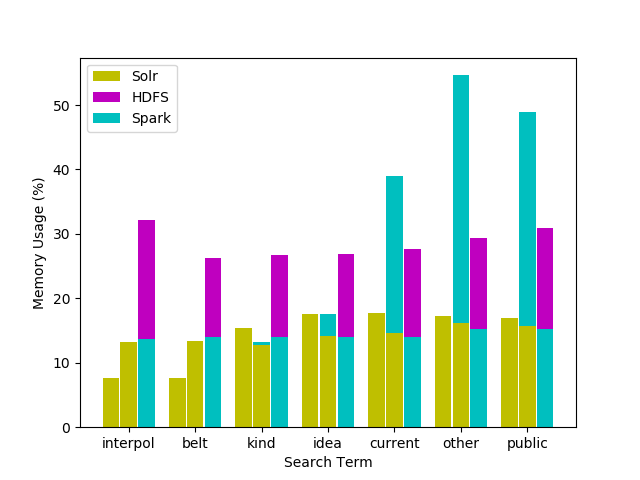
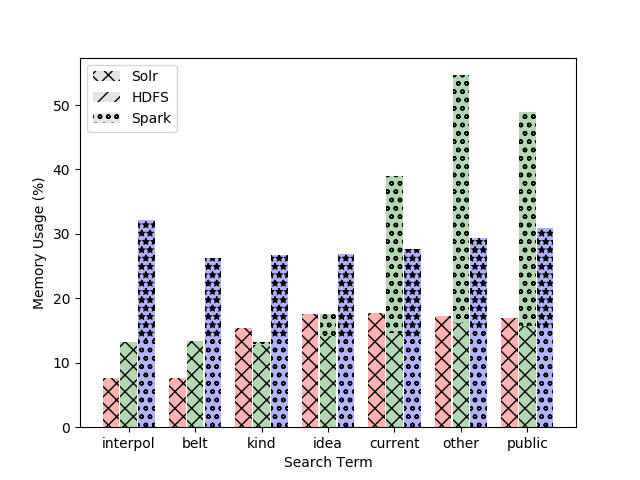
Update graph color and textures

Changed region(s): [[0.1562, 0.1562, 0.875, 0.9062], [0.125, 0.125, 0.1875, 0.2812]]

diff --git a/report/resource_usage.py b/report/resource_usage.py
@@ -1,4 +1,5 @@
 import matplotlib.pyplot as plt
+import matplotlib.patches as mpatches
 import numpy as np
 import math
 import re
@@ -358,16 +359,21 @@ def draw_bar_terms():
 
     X = np.arange(len(terms))
 
+    solr_legend = mpatches.Patch(facecolor='#D3D3D3', alpha=0.6, hatch='xx', label='Solr')
+    hdfs_legend = mpatches.Patch(facecolor='#D3D3D3', alpha=0.6, hatch=r'//', label='HDFS')
+    spark_legend = mpatches.Patch(facecolor='#D3D3D3', alpha=0.6, hatch='oo', label='Spark')
+    legend_lst = [solr_legend, hdfs_legend, spark_legend]
+
     ### driver
 
     # exp1
-    plt.bar(X - 0.27, exp1_driver_cpu_usage, color='r', width=0.25)
+    plt.bar(X - 0.27, exp1_driver_cpu_usage, color='r', alpha=0.3, width=0.25)
 
     # exp2
-    plt.bar(X, exp2_driver_cpu_usage, color='g', width=0.25)
+    plt.bar(X, exp2_driver_cpu_usage, color='g', alpha=0.3, width=0.25)
 
     # exp3
-    plt.bar(X + 0.27, exp3_driver_cpu_usage, color='b', width=0.25)
+    plt.bar(X + 0.27, exp3_driver_cpu_usage, color='b', alpha=0.3, width=0.25)
 
     plt.xticks(X, terms)
     plt.xlabel('Search Term')
@@ -381,20 +387,21 @@ def draw_bar_terms():
     plt.clf()
 
     # exp1
-    plt1 = plt.bar(X - 0.27, exp1_solr_cpu_usage, color='y', width=0.25)
+    plt1 = plt.bar(X - 0.27, exp1_solr_cpu_usage, color='r', alpha=0.3, width=0.25, hatch='xx')
 
     # exp2
-    plt.bar(X, exp2_solr_cpu_usage, color='y', width=0.25)
-    plt.bar(X, exp2_spark_cpu_usage, bottom=exp2_solr_cpu_usage, color='c', width=0.25)
+    plt2 = plt.bar(X, exp2_solr_cpu_usage, color='g', alpha=0.3, width=0.25, hatch='xx')
+    plt.bar(X, exp2_spark_cpu_usage, bottom=exp2_solr_cpu_usage, color='g', alpha=0.3, width=0.25, hatch='oo')
 
     # exp3
-    plt2 = plt.bar(X + 0.27, exp3_hdfs_cpu_usage, bottom=exp3_spark_cpu_usage, color='m', width=0.25)
-    plt3 = plt.bar(X + 0.27, exp3_spark_cpu_usage, color='c', width=0.25)
+    plt2 = plt.bar(X + 0.27, exp3_hdfs_cpu_usage, bottom=exp3_spark_cpu_usage, color='b', alpha=0.3, width=0.25, hatch='//')
+    plt3 = plt.bar(X + 0.27, exp3_spark_cpu_usage, color='b', alpha=0.3, width=0.25, hatch='oo')
 
     plt.xticks(X, terms)
     plt.xlabel('Search Term')
     plt.ylabel('CPU Usage (%)')
-    plt.legend((plt1[0], plt2[0], plt3[0]), ('Solr', 'HDFS', 'Spark'), loc='upper left')
+
+    plt.legend(handles=legend_lst, loc='upper left')
 
     plt.savefig(os.path.join(graphs_dir, "cluster_cpu_selectivity.png"))
 
@@ -405,13 +412,13 @@ def draw_bar_terms():
     plt.clf()
 
     # exp1
-    plt.bar(X - 0.27, exp1_driver_mem_usage, color='r', width=0.25)
+    plt.bar(X - 0.27, exp1_driver_mem_usage, color='r', alpha=0.3, width=0.25)
 
     # exp2
-    plt.bar(X, exp2_driver_mem_usage, color='g', width=0.25)
+    plt.bar(X, exp2_driver_mem_usage, color='g', alpha=0.3, width=0.25)
 
     # exp3
-    plt.bar(X + 0.27, exp3_driver_mem_usage, color='b', width=0.25)
+    plt.bar(X + 0.27, exp3_driver_mem_usage, color='b', alpha=0.3, width=0.25)
 
     plt.xticks(X, terms)
     plt.xlabel('Search Term')
@@ -425,20 +432,20 @@ def draw_bar_terms():
     plt.clf()
 
     # exp1
-    plt1 = plt.bar(X - 0.27, exp1_solr_mem_usage, color='y', width=0.25)
+    plt1 = plt.bar(X - 0.27, exp1_solr_mem_usage, color='r', alpha=0.3, width=0.25, hatch='xx')
 
     # exp2
-    plt.bar(X, exp2_solr_mem_usage, color='y', width=0.25)
-    plt.bar(X, exp2_spark_mem_usage, bottom=exp2_solr_mem_usage, color='c', width=0.25)
+    plt.bar(X, exp2_solr_mem_usage, color='g', alpha=0.3, width=0.25, hatch='xx')
+    plt.bar(X, exp2_spark_mem_usage, bottom=exp2_solr_mem_usage, color='g', alpha=0.3, width=0.25, hatch='oo')
 
     # exp3
-    plt2 = plt.bar(X + 0.27, exp3_hdfs_mem_usage, bottom=exp3_spark_mem_usage, color='m', width=0.25)
-    plt3 = plt.bar(X + 0.27, exp3_spark_mem_usage, color='c', width=0.25)
+    plt2 = plt.bar(X + 0.27, exp3_hdfs_mem_usage, bottom=exp3_spark_mem_usage, color='b', alpha=0.3, width=0.25, hatch='**')
+    plt3 = plt.bar(X + 0.27, exp3_spark_mem_usage, color='b', alpha=0.3, width=0.25, hatch='oo')
 
     plt.xticks(X, terms)
     plt.xlabel('Search Term')
     plt.ylabel('Memory Usage (%)')
-    plt.legend((plt1[0], plt2[0], plt3[0]), ('Solr', 'HDFS', 'Spark'), loc='upper left')
+    plt.legend(handles=legend_lst, loc='upper left')
 
     plt.savefig(os.path.join(graphs_dir, "cluster_mem_selectivity.png"))
 
@@ -452,13 +459,13 @@ def draw_runtime():
     X = np.arange(len(terms))
 
     # driver totals
-    plt.bar(X - 0.27, exp1_runtime, color='r', width=0.25)
+    plt.bar(X - 0.27, exp1_runtime, color='r', alpha=0.3, width=0.25)
 
     # solr totals
-    plt.bar(X, exp2_runtime, color='g', width=0.25)
+    plt.bar(X, exp2_runtime, color='g', alpha=0.3, width=0.25)
 
     # spark totals
-    plt.bar(X + 0.27, exp3_runtime, color='b', width=0.25)
+    plt.bar(X + 0.27, exp3_runtime, color='b', alpha=0.3, width=0.25)
 
     plt.xticks(X, terms)
     plt.xlabel('Search Term')
